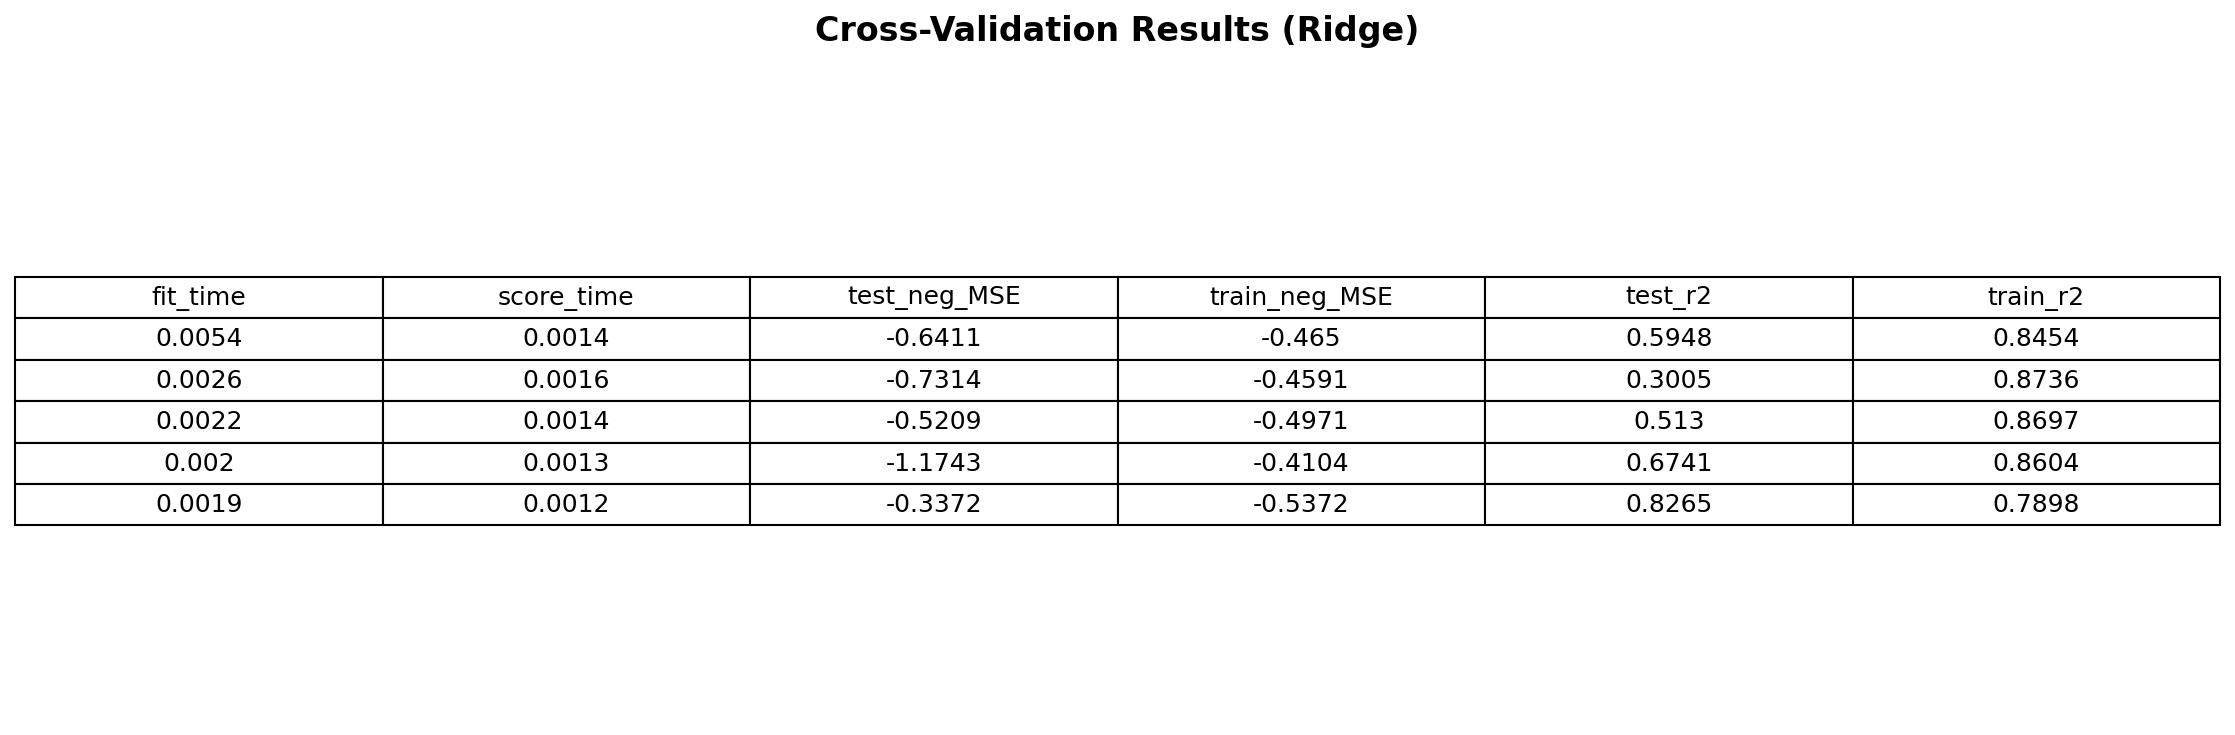
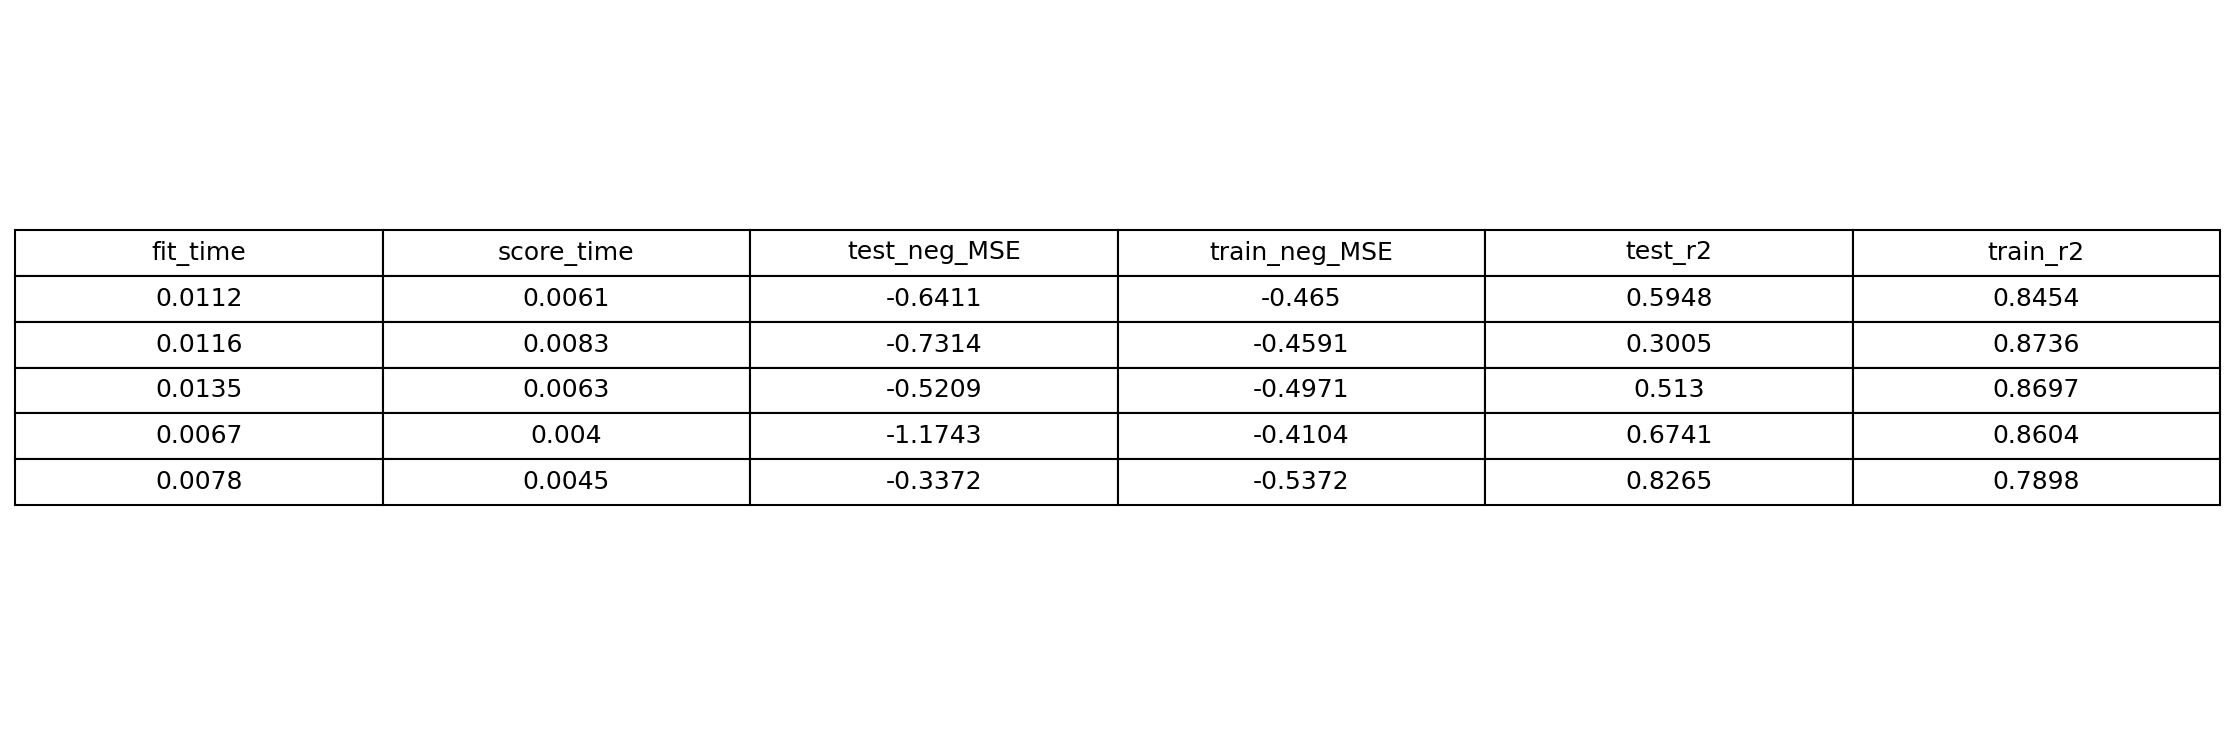
Fix directory discrepencies

diff --git a/scripts/model.py b/scripts/model.py
@@ -48,12 +48,12 @@ def save_df_as_png(df, filename, title=None):
 @click.command()
 @click.option(
     "--input-file",
-    default="data/processed/clean_sleep_data.csv",
+    default="../data/processed/sleep_data_clean.csv",
     help="Path to the cleaned data file",
 )
 @click.option(
     "--output-prefix",
-    default="results/model_analysis",
+    default="../results/model_analysis",
     help="Prefix for output files (e.g. results/this_analysis)",
 )
 def run_model(input_file, output_prefix):
@@ -134,7 +134,6 @@ def run_model(input_file, output_prefix):
     save_df_as_png(
         cv_results_df.round(4),
         f"{output_prefix}_cv_results.png",
-        "Cross-Validation Results (Ridge)",
     )
 
     # 4. Final Training & Evaluation
@@ -151,9 +150,7 @@ def run_model(input_file, output_prefix):
     print(f"Test R2: {r2:.4f}")
 
     # Save Test Results Table
-    save_df_as_png(
-        results_df.round(4), f"{output_prefix}_test_metrics.png", "Test Set Evaluation"
-    )
+    save_df_as_png(results_df.round(4), f"{output_prefix}_test_metrics.png")
 
     # 5. Visualization (Actual vs Predicted & Residuals)
     # Set plot style

diff --git a/scripts/eda.py b/scripts/eda.py
@@ -11,10 +11,10 @@ import os
 @click.command()
 @click.option(
     "--input-file",
-    default="data/processed/sleep_data_clean.csv",
+    default="../data/processed/sleep_data_clean.csv",
     help="Path to the cleaned data file",
 )
-@click.option("--output-dir", default="figures", help="Directory to save the figures")
+@click.option("--output-dir", default="results", help="Directory to save the figures")
 def perform_eda(input_file, output_dir):
     """
     Performs Exploratory Data Analysis on the training split of the data

diff --git a/scripts/clean_data.py b/scripts/clean_data.py
@@ -7,12 +7,12 @@ from sklearn.model_selection import train_test_split
 @click.command()
 @click.option(
     "--source",
-    default="data/raw/sleep_data_raw.csv",
+    default="/data/raw/sleep_data_raw.csv",
     help="The path to the raw data file",
 )
 @click.option(
     "--dest",
-    default="data/processed/sleep_data_clean.csv",
+    default="/data/processed/sleep_data_clean.csv",
     help="The path to save the cleaned data file",
 )
 def cleaning_preprocess(source, dest):
